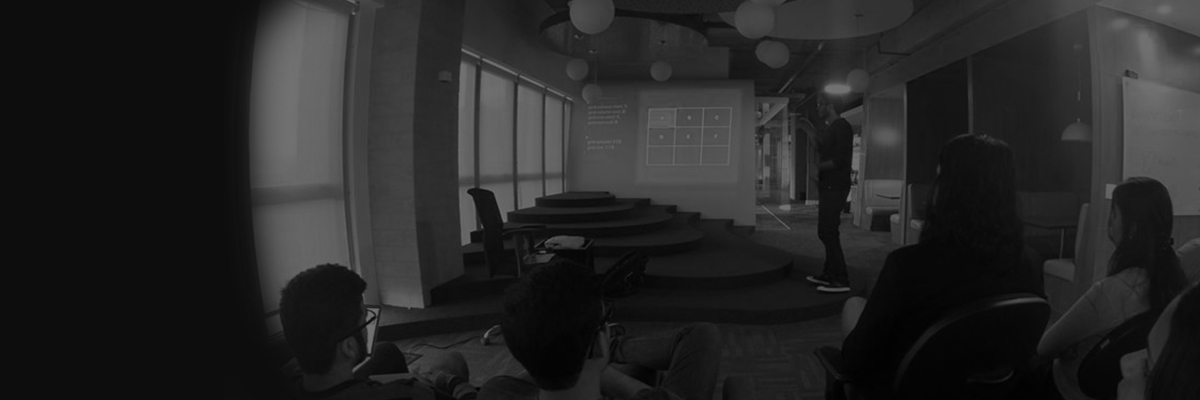
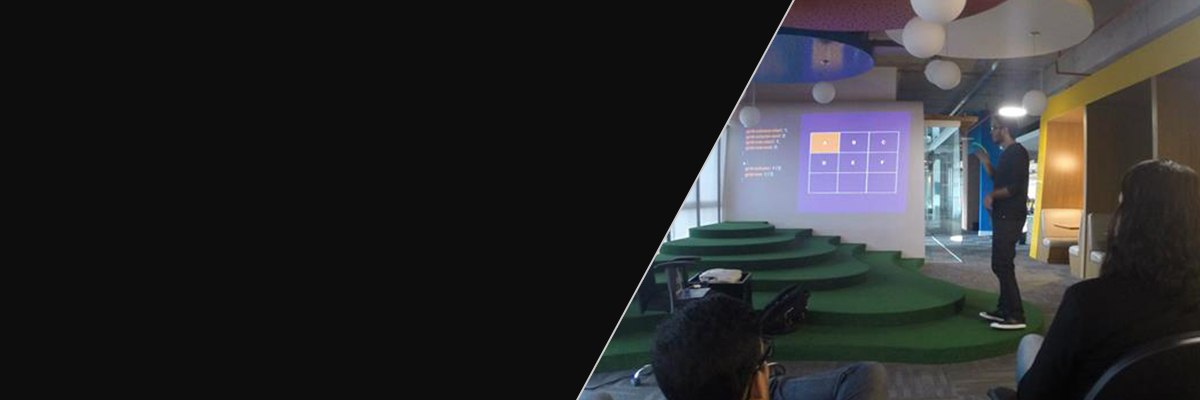
API refactor

diff --git a/src/assets/styles/organisms.css b/src/assets/styles/organisms.css
@@ -14,8 +14,8 @@
 .or-background-img {
   background: #0d0d0d;
   /*background-image: url('../img/afonso.jpg');*/
-  background-position: right;
-  background-repeat: no-repeat;
+  /*background-position: right;
+  background-repeat: no-repeat;*/
   position: relative;
   border-top: 2px solid #ccc;
 }

diff --git a/src/assets/styles/molecules.css b/src/assets/styles/molecules.css
@@ -69,7 +69,7 @@
   width: 100%;
   max-width: 1200px;
   margin: 0 auto;
-  margin-top: 200px;
+  margin-top: 80px;
   padding: 20px 10px;
   color: #dedddd;
   bottom: 0;
